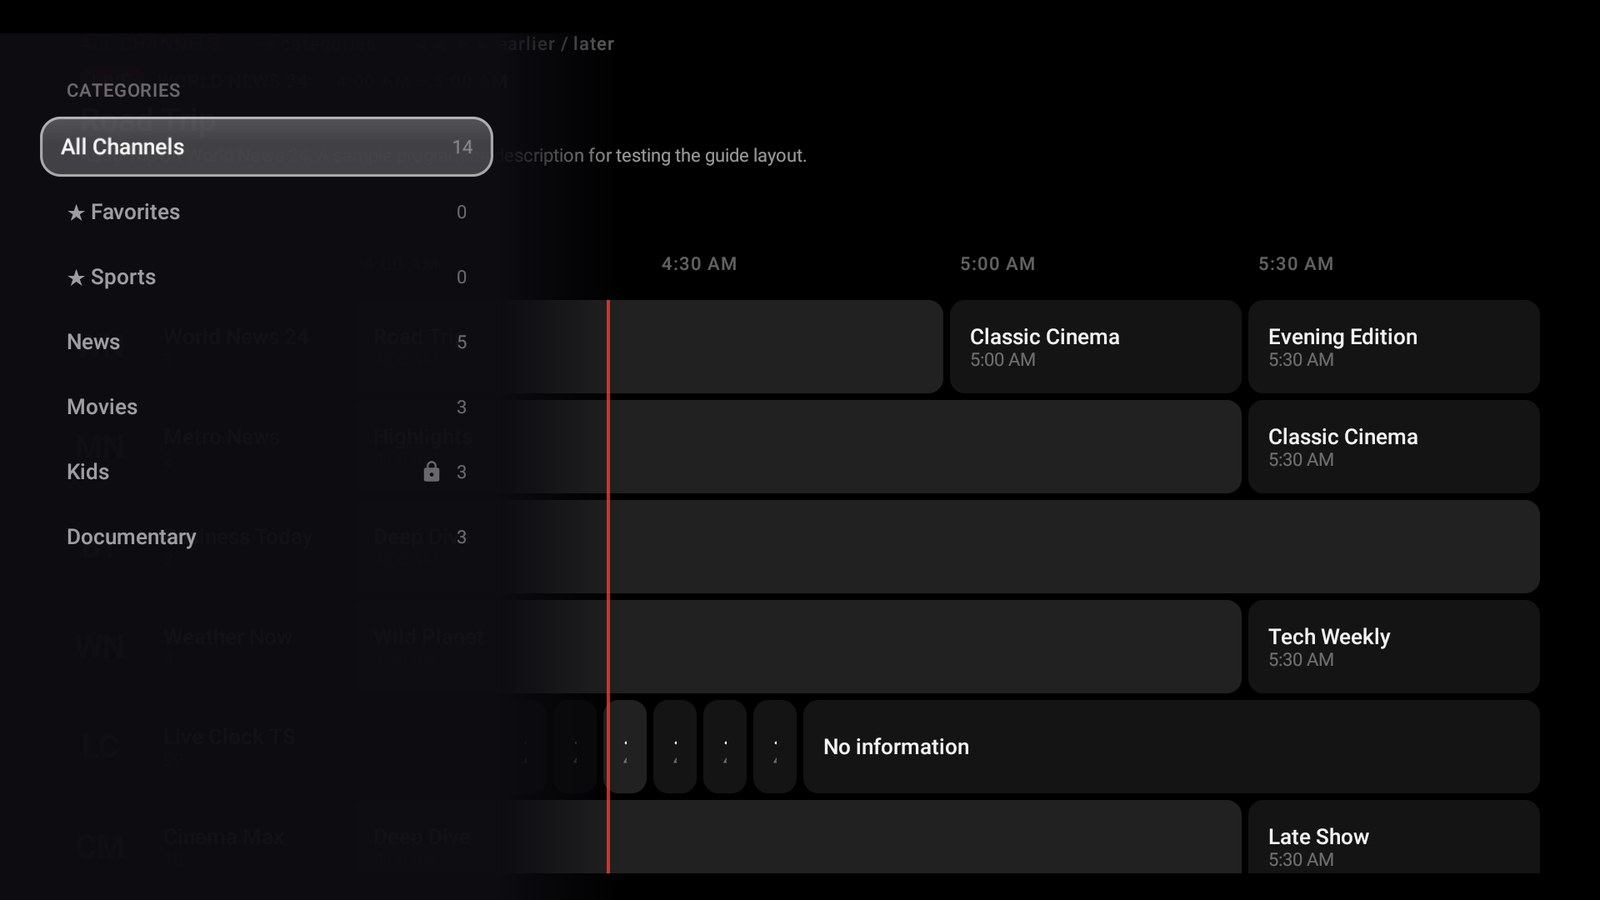
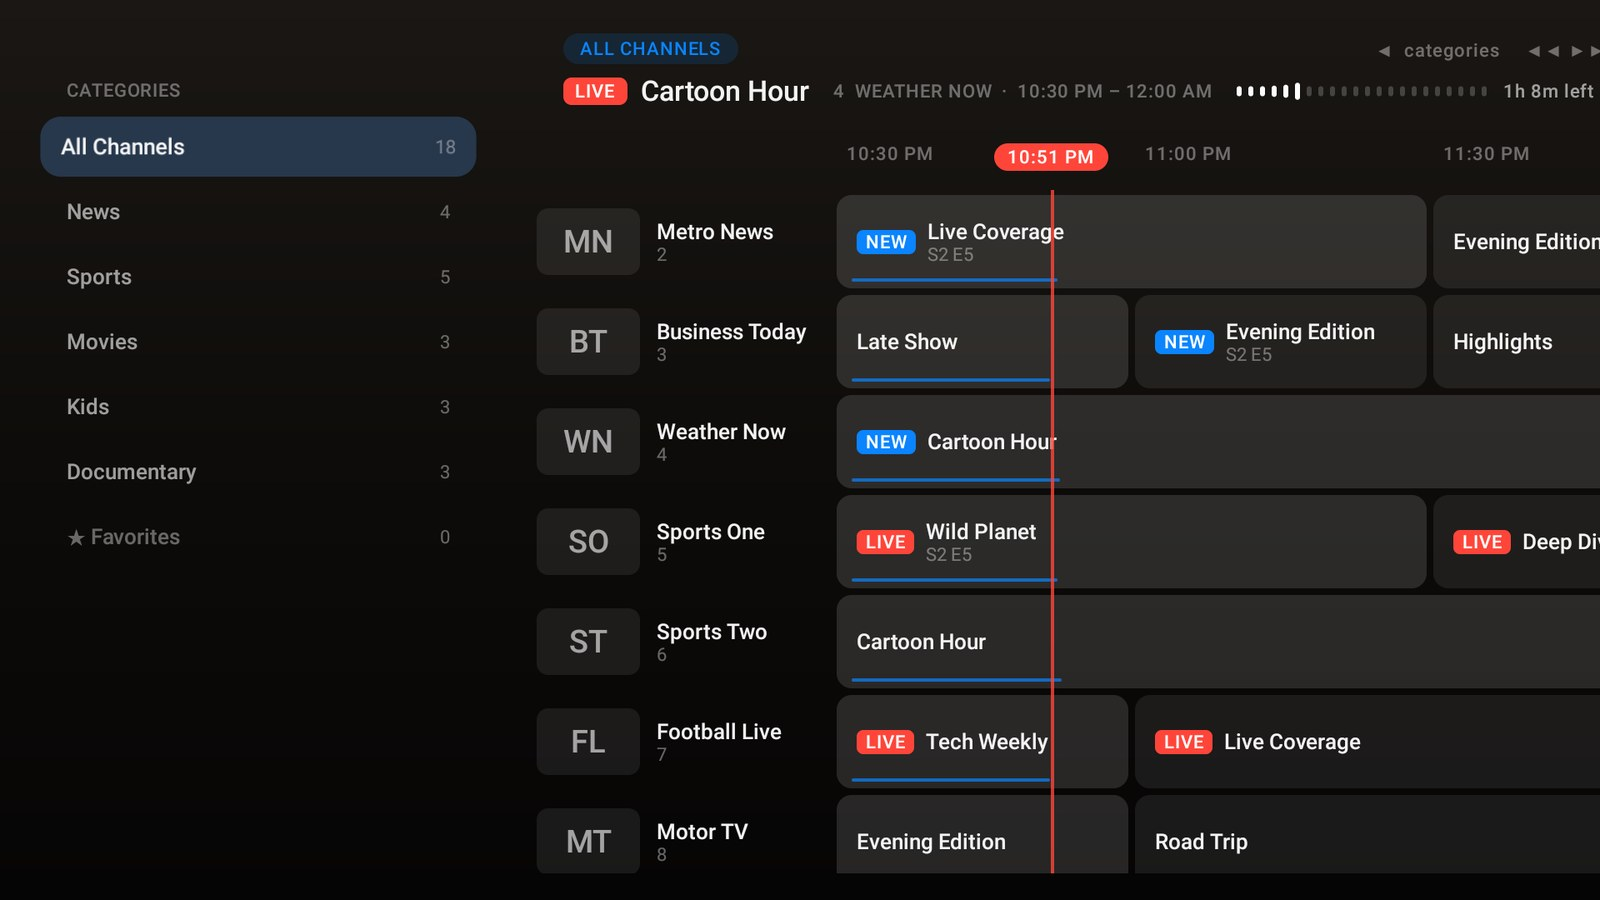
README: Raster 0.5.0

diff --git a/README.md b/README.md
@@ -9,7 +9,7 @@
 </p>
 
 <p align="center">
-  <img alt="Version" src="https://img.shields.io/badge/version-0.4.3-F1EADD?style=flat-square&labelColor=1A1714">
+  <img alt="Version" src="https://img.shields.io/badge/version-0.5.0-F1EADD?style=flat-square&labelColor=1A1714">
   <img alt="Platform" src="https://img.shields.io/badge/Fire%20TV%20%7C%20Android%20TV-7.1%2B-F1EADD?style=flat-square&labelColor=1A1714">
   <img alt="Kotlin" src="https://img.shields.io/badge/Kotlin-2.3-F1EADD?style=flat-square&labelColor=1A1714&logo=kotlin&logoColor=F1EADD">
   <img alt="Compose for TV" src="https://img.shields.io/badge/Jetpack%20Compose-for%20TV-F1EADD?style=flat-square&labelColor=1A1714&logo=jetpackcompose&logoColor=F1EADD">
@@ -36,11 +36,11 @@
 <table>
   <tr>
     <td width="50%"><img src="screenshots/player.jpg" alt="Player info card"><br><sub><b>Player.</b> OK opens the info card: rewind on the timeline, what's coming up, quick actions and history.</sub></td>
-    <td width="50%"><img src="screenshots/guide.jpg" alt="Guide"><br><sub><b>Guide.</b> The channel you're watching keeps playing in the header while you browse.</sub></td>
+    <td width="50%"><img src="screenshots/guide.jpg" alt="Guide"><br><sub><b>Guide.</b> A one-line header leaves room for more channels; new and live programmes are tagged.</sub></td>
   </tr>
   <tr>
     <td width="50%"><img src="screenshots/categories.jpg" alt="Categories"><br><sub><b>Categories.</b> ◀ at the start of the guide slides in your groups and favourites lists.</sub></td>
-    <td width="50%"><img src="screenshots/settings.jpg" alt="Settings"><br><sub><b>Settings.</b> Grouped into clear sections, every option a press or two away.</sub></td>
+    <td width="50%"><img src="screenshots/settings.jpg" alt="Settings"><br><sub><b>Settings.</b> Grouped into clear sections, with the niche options behind Advanced.</sub></td>
   </tr>
 </table>
 
@@ -52,11 +52,16 @@
 - Rewind timeline with a time bubble, programme boundaries and a one-press **Go Live**
 - Info card with episode details, **Coming Up**, Record, Favourite, Audio, Subtitles and Start Over
 - Recently watched channels, previous channel, number-key tuning, Multiview (2 or 4 at once)
-- "Up next" and "recording soon" pop-ups, sleep timer, automatic reconnect
+- Channel up/down previews what's on before tuning; "Up next" and "recording soon" pop-ups, sleep timer, automatic reconnect
+- Picture shapes (Fit, Stretch, Zoom, Force 16:9 / 4:3, Zoom 5%), subtitle timing while watching, Always Use VLC per channel
+- Picture-in-picture on TVs that have it; a paused picture dims after three minutes
 
 ### 🗓 Guide
 - Time grid that keeps your place in time when moving between channels
-- Catch-up programmes highlighted with ↺, past programmes faded
+- Compact header for about twice the channels on screen; choose the time span, row height and channel column
+- NEW and LIVE tags and episode numbers from the guide; very short programmes run together
+- Type a channel number to jump to it; refreshes in the background, even with Raster closed
+- Catch-up programmes highlighted with ↺, past programmes faded (or hidden)
 - Reminders and recordings straight from the grid; ◀◀ ▶▶ move an hour at a time
 - Categories panel with favourites lists and provider groups
 
@@ -68,6 +73,11 @@
 - The card you're on described at the top, with the playing video beside it
 - Rows you choose and order yourself: Recent Channels, Continue Watching, favourites lists, recordings, recently added
 - Left at the start of any row jumps back to the top
+
+### 🎛 Remote
+- Preview or instant channel changes, flip ▲ ▼, keep them in the category you picked from
+- Choose what Back does while watching, and give ◀◀ ▶▶ and the coloured buttons other jobs
+- Undo after hiding a channel or removing a favourite; "press Back again" before leaving
 
 ### ⏺ Recording
 - Record now or schedule from the guide, to internal storage or USB
@@ -81,8 +91,11 @@
 
 ### 🎨 Personal
 - Raster theme with a cream accent, plus Cool Dark and Pure Black (for OLED)
-- Accent colours, sounds and motion each switchable
-- Rename, renumber or hide channels; favourites lists you can reorder
+- Any accent colour, focus style, channel card style (wide, square, strip), motion speed and corner roundness
+- Logo backgrounds that keep dark logos visible, a clock in the tab bar, and Evening Mode for the menus
+- Arrange the tab bar (hide, reorder, icons only) and the top of Home (large, small or off)
+- Rename, renumber, hide or sort channels, clean up their names; favourites lists you can reorder
+- A User-Agent for each provider, and an Advanced switch that keeps the niche settings out of the way
 - Parental PIN for groups, channels and Settings
 - In-app updates
 
@@ -115,7 +128,7 @@ Most Fire TV devices need **`armeabi-v7a`** (32-bit apps, even on 64-bit hardwar
 
 ```sh
 adb connect <fire-tv-ip>:5555
-adb install -r raster-0.4.3-armeabi-v7a.apk
+adb install -r raster-0.5.0-armeabi-v7a.apk
 adb shell cmd package compile -m speed -f tv.raster.app   # recommended, see below
 ```
 
@@ -135,11 +148,11 @@ Updates come only over `https://`, and an APK is installed only when its SHA-256
 
   ```json
   {
-    "versionCode": 7,
-    "versionName": "0.4.3",
+    "versionCode": 8,
+    "versionName": "0.5.0",
     "notes": "What's new",
     "apks": {
-      "armeabi-v7a": { "url": "raster-0.4.3-armeabi-v7a.apk", "sha256": "…64 hex characters…" }
+      "armeabi-v7a": { "url": "raster-0.5.0-armeabi-v7a.apk", "sha256": "…64 hex characters…" }
     }
   }
   ```
